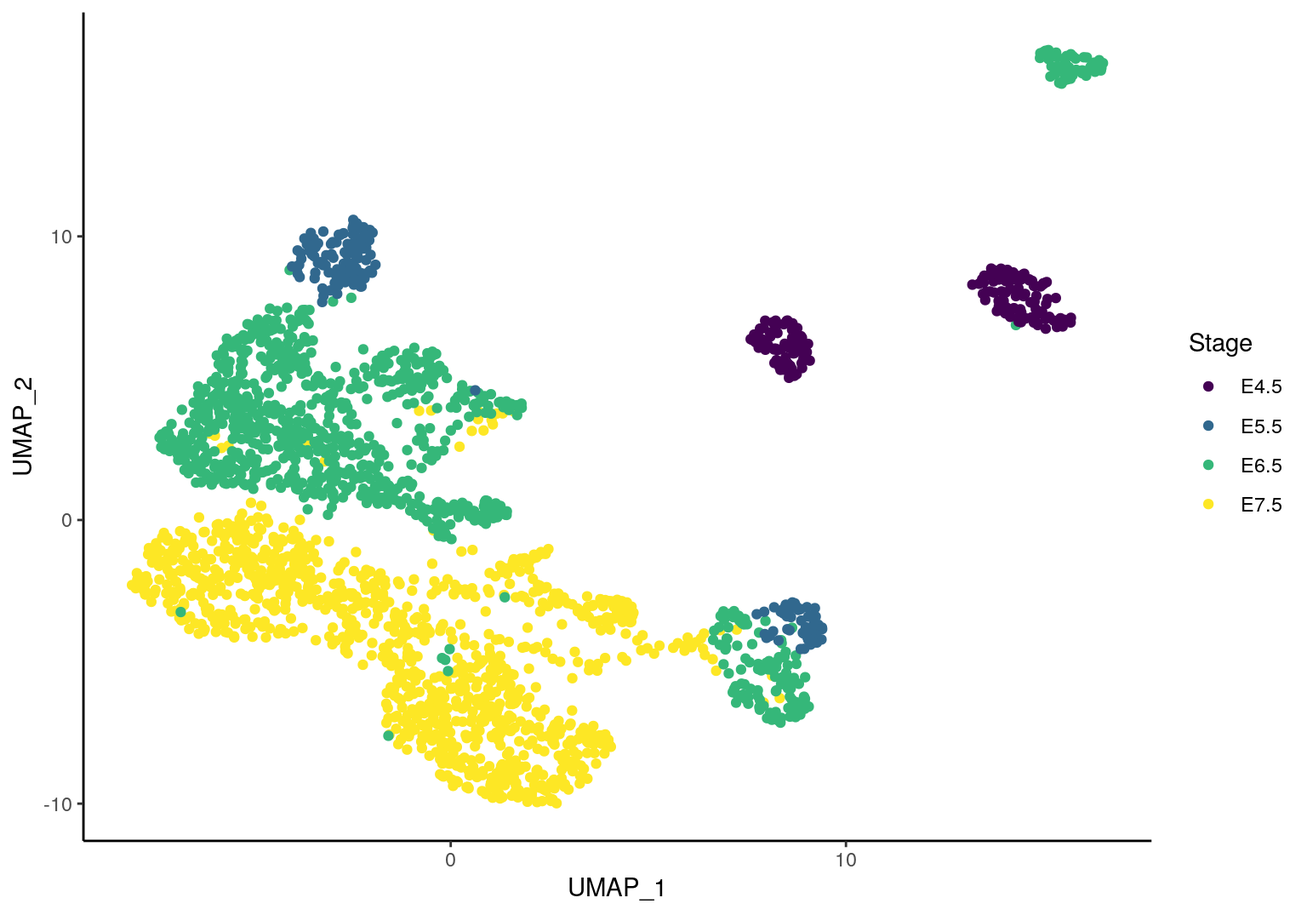
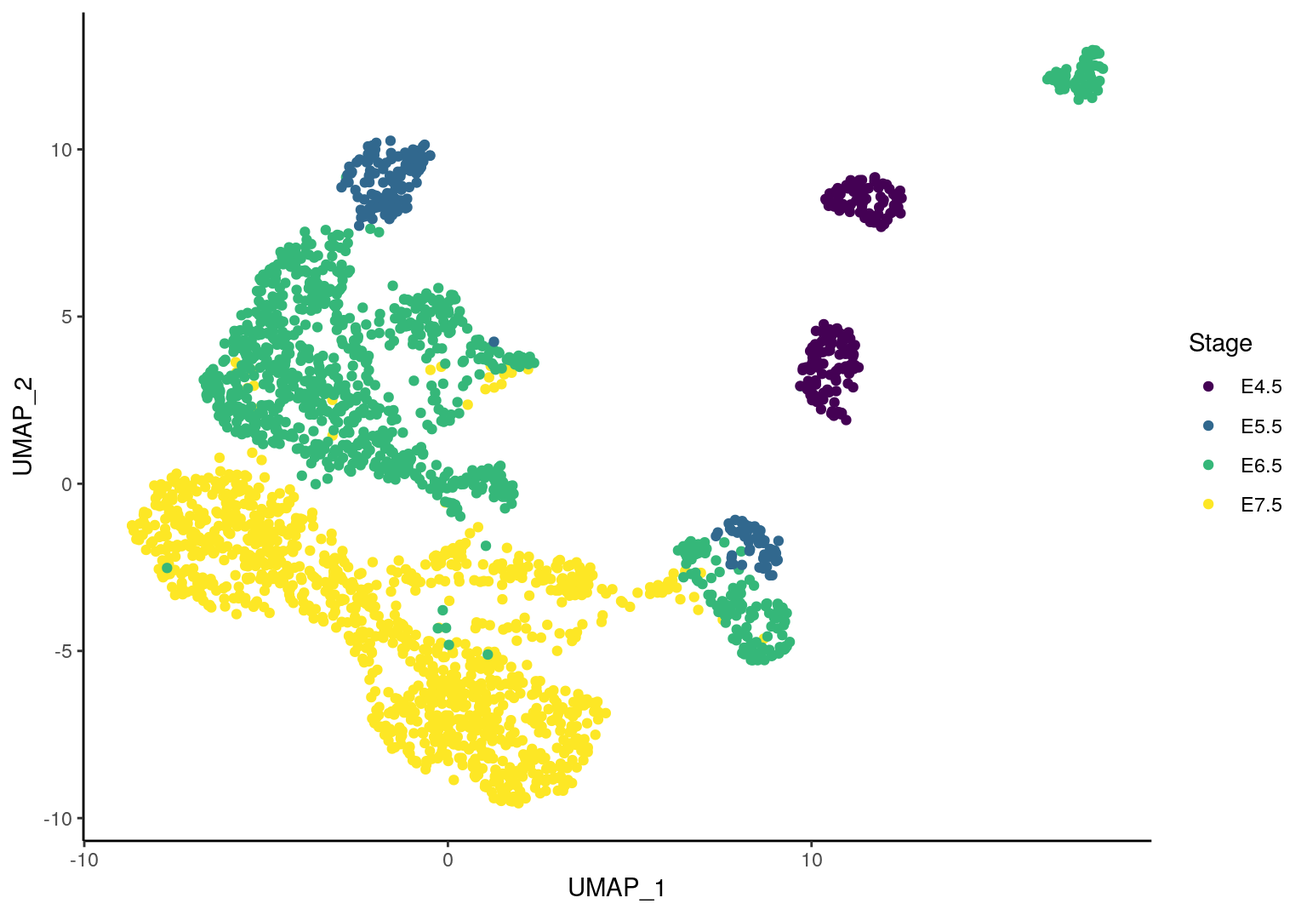
Deploying to gh-pages from  @ c1abd551ba6c7c4b77b3a3a541d36aec18cddb22 🚀

diff --git a/articles/index.html b/articles/index.html
@@ -276,25 +276,28 @@
 <span class="no">stages</span> <span class="kw">&lt;-</span> <span class="fu"><a href="https://rdrr.io/r/base/c.html">c</a></span>(<span class="st">"E4.5"</span>, <span class="st">"E5.5"</span>, <span class="st">"E6.5"</span>, <span class="st">"E7.5"</span>)
 <span class="co"># col_palette &lt;- dput(viridisLite::viridis(n = length(stages)))</span>
 <span class="no">col_palette</span> <span class="kw">&lt;-</span> <span class="fu"><a href="https://rdrr.io/r/base/c.html">c</a></span>(<span class="st">"#440154FF"</span>, <span class="st">"#31688EFF"</span>, <span class="st">"#35B779FF"</span>, <span class="st">"#FDE725FF"</span>)
-<span class="fu"><a href="https://rdrr.io/r/base/names.html">names</a></span>(<span class="no">col_palette</span>) <span class="kw">&lt;-</span> <span class="no">stages</span>
-
-<span class="co">## helper function to create UMAP plots coloured by stage</span>
-<span class="no">plot_umap_by_stage</span> <span class="kw">&lt;-</span> <span class="kw">function</span>(<span class="no">df</span>, <span class="no">dims</span> <span class="kw">=</span> <span class="fu"><a href="https://rdrr.io/r/base/c.html">c</a></span>(<span class="fl">1</span>,<span class="fl">2</span>)) {
-  <span class="no">axes</span> <span class="kw">&lt;-</span> <span class="fu"><a href="https://rdrr.io/r/base/paste.html">paste0</a></span>(<span class="st">'UMAP_'</span>, <span class="no">dims</span>)
+<span class="fu"><a href="https://rdrr.io/r/base/names.html">names</a></span>(<span class="no">col_palette</span>) <span class="kw">&lt;-</span> <span class="no">stages</span></pre></body></html></div>
+<div class="sourceCode" id="cb11"><html><body><pre class="r"><span class="co">## helper function to create UMAP plots coloured by stage</span>
+<span class="no">plot_reducedDims</span> <span class="kw">&lt;-</span> <span class="kw">function</span>(<span class="no">sce</span>, <span class="no">reducedDim</span> <span class="kw">=</span> <span class="st">'UMAP'</span>,
+                             <span class="no">dims</span> <span class="kw">=</span> <span class="fu"><a href="https://rdrr.io/r/base/c.html">c</a></span>(<span class="fl">1</span>,<span class="fl">2</span>), <span class="no">col_palette</span>) {
+  <span class="no">comps.prefix</span> <span class="kw">&lt;-</span> <span class="fu"><a href="https://rdrr.io/r/base/ifelse.html">ifelse</a></span>(<span class="no">reducedDim</span> <span class="kw">==</span> <span class="st">'UMAP'</span>, <span class="st">'UMAP_'</span>, <span class="st">'PC_'</span>)
+  <span class="no">df</span> <span class="kw">&lt;-</span> <span class="fu"><a href="https://rdrr.io/r/base/data.frame.html">data.frame</a></span>(<span class="fu">reducedDim</span>(<span class="no">sce</span>, <span class="no">reducedDim</span>))[,<span class="no">dims</span>]
+  <span class="no">axes</span> <span class="kw">&lt;-</span> <span class="fu"><a href="https://rdrr.io/r/base/colnames.html">colnames</a></span>(<span class="no">df</span>) <span class="kw">&lt;-</span> <span class="fu"><a href="https://rdrr.io/r/base/paste.html">paste0</a></span>(<span class="no">comps.prefix</span>, <span class="no">dims</span>)
+  <span class="no">df</span>$<span class="no">stage</span> <span class="kw">&lt;-</span> <span class="no">sce</span>$<span class="no">stage</span>
   <span class="fu"><a href="https://ggplot2.tidyverse.org/reference/ggplot.html">ggplot</a></span>(<span class="no">df</span>, <span class="fu"><a href="https://ggplot2.tidyverse.org/reference/aes_.html">aes_string</a></span>(<span class="no">axes</span>[<span class="fl">1</span>], <span class="no">axes</span>[<span class="fl">2</span>])) + <span class="fu"><a href="https://ggplot2.tidyverse.org/reference/geom_point.html">geom_point</a></span>(<span class="fu"><a href="https://ggplot2.tidyverse.org/reference/aes.html">aes</a></span>(<span class="kw">col</span><span class="kw">=</span><span class="no">stage</span>)) +
     <span class="fu"><a href="https://ggplot2.tidyverse.org/reference/ggtheme.html">theme_classic</a></span>()+ <span class="fu"><a href="https://ggplot2.tidyverse.org/reference/scale_manual.html">scale_color_manual</a></span>(<span class="kw">values</span> <span class="kw">=</span> <span class="no">col_palette</span>) + <span class="fu"><a href="https://ggplot2.tidyverse.org/reference/labs.html">labs</a></span>(<span class="kw">col</span> <span class="kw">=</span> <span class="st">'Stage'</span>)
 }</pre></body></html></div>
-<div id="umap-projection-all-of-rna-cells" class="section level2">
+<div id="dimension-reduction-all-of-rna-cells" class="section level2">
 <h2 class="hasAnchor">
-<a href="#umap-projection-all-of-rna-cells" class="anchor"></a>UMAP projection all of RNA cells</h2>
+<a href="#dimension-reduction-all-of-rna-cells" class="anchor"></a>Dimension reduction all of RNA cells</h2>
 <p>Select highly variable genes after accounting for technical variation:</p>
-<div class="sourceCode" id="cb11"><html><body><pre class="r"><span class="no">decomp</span> <span class="kw">&lt;-</span> <span class="fu"><a href="https://rdrr.io/pkg/scran/man/modelGeneVar.html">modelGeneVar</a></span>(<span class="no">rna.sce</span>)
+<div class="sourceCode" id="cb12"><html><body><pre class="r"><span class="no">decomp</span> <span class="kw">&lt;-</span> <span class="fu"><a href="https://rdrr.io/pkg/scran/man/modelGeneVar.html">modelGeneVar</a></span>(<span class="no">rna.sce</span>)
 <span class="co">## filter by mean expression and significance of biological variation signal</span>
 <span class="no">hvgs</span> <span class="kw">&lt;-</span> <span class="fu"><a href="https://rdrr.io/r/base/colnames.html">rownames</a></span>(<span class="no">decomp</span>)[<span class="no">decomp</span>$<span class="no">p.value</span><span class="kw">&lt;</span><span class="fl">0.01</span> <span class="kw">&amp;</span> <span class="no">decomp</span>$<span class="no">mean</span> <span class="kw">&gt;</span> <span class="fl">0.01</span>]
 <span class="fu"><a href="https://rdrr.io/r/base/length.html">length</a></span>(<span class="no">hvgs</span>)
 <span class="co">#&gt; [1] 381</span></pre></body></html></div>
 <p>Run PCA and then UMAP using PCs:</p>
-<div class="sourceCode" id="cb12"><html><body><pre class="r"><span class="no">npcs</span> <span class="kw">&lt;-</span> <span class="fl">15</span>
+<div class="sourceCode" id="cb13"><html><body><pre class="r"><span class="no">npcs</span> <span class="kw">&lt;-</span> <span class="fl">15</span>
 <span class="co">## PCA first: retrieve npcs PCs</span>
 <span class="no">rna.sce</span> <span class="kw">&lt;-</span> <span class="fu"><a href="https://rdrr.io/pkg/scater/man/runPCA.html">runPCA</a></span>(<span class="no">rna.sce</span>,  <span class="kw">ncomponents</span> <span class="kw">=</span> <span class="no">npcs</span>, <span class="kw">subset_row</span><span class="kw">=</span><span class="no">hvgs</span>, <span class="kw">name</span> <span class="kw">=</span> <span class="st">'PCA'</span>)
 
@@ -308,27 +311,34 @@
                    <span class="kw">ncomponents</span> <span class="kw">=</span> <span class="no">params</span>$<span class="no">umap_params</span>[<span class="st">'n_components'</span>],
                    <span class="kw">n_neighbors</span> <span class="kw">=</span> <span class="no">params</span>$<span class="no">umap_params</span>[<span class="st">'n_neighbors'</span>],
                    <span class="kw">min_dist</span> <span class="kw">=</span> <span class="no">params</span>$<span class="no">umap_params</span>[<span class="st">'min_dist'</span>])</pre></body></html></div>
-<p>data.frame of embeddings with cell metadata:</p>
-<div class="sourceCode" id="cb13"><html><body><pre class="r"><span class="co"># data.frame of embeddings with cell metadata</span>
-<span class="no">df</span> <span class="kw">&lt;-</span>  <span class="fu"><a href="https://rdrr.io/r/base/data.frame.html">data.frame</a></span>(<span class="fu">reducedDim</span>(<span class="no">rna.sce</span>,<span class="st">"UMAP"</span>))
-<span class="fu"><a href="https://rdrr.io/r/base/colnames.html">colnames</a></span>(<span class="no">df</span>) <span class="kw">&lt;-</span> <span class="fu"><a href="https://rdrr.io/r/base/paste.html">paste0</a></span>(<span class="st">'UMAP_'</span>, <span class="fu"><a href="https://rdrr.io/r/base/seq.html">seq_along</a></span>(<span class="no">df</span>))
-<span class="no">df</span> <span class="kw">&lt;-</span> <span class="fu"><a href="https://rdrr.io/r/base/cbind.html">cbind</a></span>(<span class="no">df</span>, <span class="fu">colData</span>(<span class="no">rna.sce</span>))</pre></body></html></div>
+<div id="pca" class="section level3">
+<h3 class="hasAnchor">
+<a href="#pca" class="anchor"></a>PCA</h3>
 <p>Plot the first two UMAP components:</p>
-<div class="sourceCode" id="cb14"><html><body><pre class="r"><span class="fu">plot_umap_by_stage</span>(<span class="kw">df</span> <span class="kw">=</span> <span class="no">df</span>, <span class="kw">dims</span> <span class="kw">=</span> <span class="fu"><a href="https://rdrr.io/r/base/c.html">c</a></span>(<span class="fl">1</span>,<span class="fl">2</span>))</pre></body></html></div>
+<div class="sourceCode" id="cb14"><html><body><pre class="r"><span class="fu">plot_reducedDims</span>(<span class="kw">sce</span> <span class="kw">=</span> <span class="no">rna.sce</span>, <span class="kw">reducedDim</span> <span class="kw">=</span> <span class="st">'PCA'</span>, <span class="kw">dims</span> <span class="kw">=</span> <span class="fu"><a href="https://rdrr.io/r/base/c.html">c</a></span>(<span class="fl">1</span>,<span class="fl">2</span>), <span class="kw">col_palette</span> <span class="kw">=</span> <span class="no">col_palette</span>)</pre></body></html></div>
 <p><img src="index_files/figure-html/unnamed-chunk-18-1.png" width="768"></p>
-<p>UMAP plot shows distinct cell populations corresponding to early-stage, mid-stage, and late-stage cells as well as the within-stage variation for mainly E4.5 and E6.5 which could correspond to different lineages.</p>
+<p>First two PCs highlight the within-stage variation which could potentially correspond to different distinct cell lineages.</p>
 </div>
-<div id="umap-projection-all-matching-rna-cells-used-in-integration" class="section level2">
+<div id="umap" class="section level3">
+<h3 class="hasAnchor">
+<a href="#umap" class="anchor"></a>UMAP</h3>
+<p>Plot the first two UMAP components:</p>
+<div class="sourceCode" id="cb15"><html><body><pre class="r"><span class="fu">plot_reducedDims</span>(<span class="kw">sce</span> <span class="kw">=</span> <span class="no">rna.sce</span>, <span class="kw">reducedDim</span> <span class="kw">=</span> <span class="st">'UMAP'</span>, <span class="kw">dims</span> <span class="kw">=</span> <span class="fu"><a href="https://rdrr.io/r/base/c.html">c</a></span>(<span class="fl">1</span>,<span class="fl">2</span>), <span class="kw">col_palette</span> <span class="kw">=</span> <span class="no">col_palette</span>)</pre></body></html></div>
+<p><img src="index_files/figure-html/unnamed-chunk-19-1.png" width="768"></p>
+<p>UMAP plot separates the cell populations from early-stage, mid-stage, and late-stage cells and captures the the within-stage variation for early-stage and mid-stage cells.</p>
+</div>
+</div>
+<div id="dimension-reduction-of-all-matching-rna-cells-used-in-integration" class="section level2">
 <h2 class="hasAnchor">
-<a href="#umap-projection-all-matching-rna-cells-used-in-integration" class="anchor"></a>UMAP projection all matching RNA cells used in integration</h2>
+<a href="#dimension-reduction-of-all-matching-rna-cells-used-in-integration" class="anchor"></a>Dimension reduction of all matching RNA cells used in integration</h2>
 <p>Select highly variable genes after accounting for technical variation:</p>
-<div class="sourceCode" id="cb15"><html><body><pre class="r"><span class="no">decomp</span> <span class="kw">&lt;-</span> <span class="fu"><a href="https://rdrr.io/pkg/scran/man/modelGeneVar.html">modelGeneVar</a></span>(<span class="no">rna.sce.matching</span>)
+<div class="sourceCode" id="cb16"><html><body><pre class="r"><span class="no">decomp</span> <span class="kw">&lt;-</span> <span class="fu"><a href="https://rdrr.io/pkg/scran/man/modelGeneVar.html">modelGeneVar</a></span>(<span class="no">rna.sce.matching</span>)
 <span class="co">## filter by mean expression and significance of biological variation signal</span>
 <span class="no">hvgs</span> <span class="kw">&lt;-</span> <span class="fu"><a href="https://rdrr.io/r/base/colnames.html">rownames</a></span>(<span class="no">decomp</span>)[<span class="no">decomp</span>$<span class="no">p.value</span><span class="kw">&lt;</span><span class="fl">0.01</span> <span class="kw">&amp;</span> <span class="no">decomp</span>$<span class="no">mean</span> <span class="kw">&gt;</span> <span class="fl">0.01</span>]
 <span class="fu"><a href="https://rdrr.io/r/base/length.html">length</a></span>(<span class="no">hvgs</span>)
 <span class="co">#&gt; [1] 474</span></pre></body></html></div>
 <p>Run PCA and then UMAP using PCs:</p>
-<div class="sourceCode" id="cb16"><html><body><pre class="r"><span class="no">npcs</span> <span class="kw">&lt;-</span> <span class="fl">15</span>
+<div class="sourceCode" id="cb17"><html><body><pre class="r"><span class="no">npcs</span> <span class="kw">&lt;-</span> <span class="fl">15</span>
 <span class="co">## PCA first: retrieve npcs PCs</span>
 <span class="no">rna.sce.matching</span> <span class="kw">&lt;-</span> <span class="fu"><a href="https://rdrr.io/pkg/scater/man/runPCA.html">runPCA</a></span>(<span class="no">rna.sce.matching</span>, <span class="kw">ncomponents</span> <span class="kw">=</span> <span class="no">npcs</span>, <span class="kw">subset_row</span><span class="kw">=</span><span class="no">hvgs</span>, <span class="kw">name</span> <span class="kw">=</span> <span class="st">'PCA'</span>)
 
@@ -341,15 +351,22 @@
 <span class="no">rna.sce.matching</span> <span class="kw">&lt;-</span> <span class="fu"><a href="https://rdrr.io/pkg/scater/man/runUMAP.html">runUMAP</a></span>(<span class="no">rna.sce.matching</span>, <span class="kw">dimred</span><span class="kw">=</span><span class="st">"PCA"</span>,
                    <span class="kw">ncomponents</span> <span class="kw">=</span> <span class="no">params</span>$<span class="no">umap_params</span>[<span class="st">'n_components'</span>],
                    <span class="kw">n_neighbors</span> <span class="kw">=</span> <span class="no">params</span>$<span class="no">umap_params</span>[<span class="st">'n_neighbors'</span>],
-                   <span class="kw">min_dist</span> <span class="kw">=</span> <span class="no">params</span>$<span class="no">umap_params</span>[<span class="st">'min_dist'</span>])</pre></body></html></div>
-<p>data.frame of embeddings with cell metadata:</p>
-<div class="sourceCode" id="cb17"><html><body><pre class="r"><span class="co"># data.frame of embeddings with cell metadata</span>
-<span class="no">df.matching</span> <span class="kw">&lt;-</span>  <span class="fu"><a href="https://rdrr.io/r/base/data.frame.html">data.frame</a></span>(<span class="fu">reducedDim</span>(<span class="no">rna.sce.matching</span>,<span class="st">"UMAP"</span>))
-<span class="fu"><a href="https://rdrr.io/r/base/colnames.html">colnames</a></span>(<span class="no">df.matching</span>) <span class="kw">&lt;-</span> <span class="fu"><a href="https://rdrr.io/r/base/paste.html">paste0</a></span>(<span class="st">'UMAP_'</span>, <span class="fu"><a href="https://rdrr.io/r/base/seq.html">seq_along</a></span>(<span class="no">df.matching</span>))
-<span class="no">df.matching</span> <span class="kw">&lt;-</span> <span class="fu"><a href="https://rdrr.io/r/base/cbind.html">cbind</a></span>(<span class="no">df.matching</span>, <span class="fu">colData</span>(<span class="no">rna.sce.matching</span>))</pre></body></html></div>
+                   <span class="kw">min_dist</span> <span class="kw">=</span> <span class="fl">0.35</span>)</pre></body></html></div>
+<div id="pca-1" class="section level3">
+<h3 class="hasAnchor">
+<a href="#pca-1" class="anchor"></a>PCA</h3>
 <p>Plot the first two UMAP components:</p>
-<div class="sourceCode" id="cb18"><html><body><pre class="r"><span class="fu">plot_umap_by_stage</span>(<span class="kw">df</span> <span class="kw">=</span> <span class="no">df.matching</span>, <span class="kw">dims</span> <span class="kw">=</span> <span class="fu"><a href="https://rdrr.io/r/base/c.html">c</a></span>(<span class="fl">1</span>,<span class="fl">2</span>))</pre></body></html></div>
+<div class="sourceCode" id="cb18"><html><body><pre class="r"><span class="fu">plot_reducedDims</span>(<span class="kw">sce</span> <span class="kw">=</span> <span class="no">rna.sce.matching</span>, <span class="kw">reducedDim</span> <span class="kw">=</span> <span class="st">'PCA'</span>, <span class="kw">dims</span> <span class="kw">=</span> <span class="fu"><a href="https://rdrr.io/r/base/c.html">c</a></span>(<span class="fl">1</span>,<span class="fl">2</span>), <span class="kw">col_palette</span> <span class="kw">=</span> <span class="no">col_palette</span>)</pre></body></html></div>
 <p><img src="index_files/figure-html/unnamed-chunk-22-1.png" width="768"></p>
+</div>
+<div id="umap-1" class="section level3">
+<h3 class="hasAnchor">
+<a href="#umap-1" class="anchor"></a>UMAP</h3>
+<p>Plot the first two UMAP components:</p>
+<div class="sourceCode" id="cb19"><html><body><pre class="r"><span class="fu">plot_reducedDims</span>(<span class="kw">sce</span> <span class="kw">=</span> <span class="no">rna.sce.matching</span>, <span class="kw">reducedDim</span> <span class="kw">=</span> <span class="st">'UMAP'</span>, <span class="kw">dims</span> <span class="kw">=</span> <span class="fu"><a href="https://rdrr.io/r/base/c.html">c</a></span>(<span class="fl">1</span>,<span class="fl">2</span>), <span class="kw">col_palette</span> <span class="kw">=</span> <span class="no">col_palette</span>)</pre></body></html></div>
+<p><img src="index_files/figure-html/unnamed-chunk-23-1.png" width="768"></p>
+<p>Similar results to the analysis with all cells.</p>
+</div>
 </div>
 </div>
 <div id="integration" class="section level1">
@@ -383,7 +400,7 @@
 <h2 class="hasAnchor">
 <a href="#pls" class="anchor"></a>PLS</h2>
 <p>data dimensions overview:</p>
-<div class="sourceCode" id="cb19"><html><body><pre class="r"><span class="co"># data dimensions</span>
+<div class="sourceCode" id="cb20"><html><body><pre class="r"><span class="co"># data dimensions</span>
 <span class="fu"><a href="https://rdrr.io/r/base/lapply.html">lapply</a></span>(<span class="fu"><a href="https://rdrr.io/pkg/MultiAssayExperiment/man/MultiAssayExperiment-methods.html">experiments</a></span>(<span class="no">gastru.mae</span>), <span class="no">dim</span>)
 <span class="co">#&gt; $rna</span>
 <span class="co">#&gt; [1] 18345   942</span>
@@ -400,7 +417,7 @@
 <span class="co">#&gt; $met_DHS</span>
 <span class="co">#&gt; [1] 6673  942</span></pre></body></html></div>
 <p>integration of all modalities with feature selection:</p>
-<div class="sourceCode" id="cb20"><html><body><pre class="r"><span class="co">## number of components</span>
+<div class="sourceCode" id="cb21"><html><body><pre class="r"><span class="co">## number of components</span>
 <span class="no">ncomp</span> <span class="kw">&lt;-</span> <span class="fl">2</span>
 <span class="co">## feature scaling</span>
 <span class="no">scale</span> <span class="kw">&lt;-</span> <span class="fl">TRUE</span></pre></body></html></div>
@@ -408,7 +425,7 @@
 <!-- pls_output_name <- sprintf('multimodal_spls-ncomp_%s-scale_.rds', ncomp, scale) -->
 <!-- ``` -->
 <p>Here we select for 50 features on each component in <code>multimodal_sPLS_wrapper</code>:</p>
-<div class="sourceCode" id="cb21"><html><body><pre class="r"><span class="fu"><a href="https://rdrr.io/r/base/cat.html">cat</a></span>(<span class="fu"><a href="https://rdrr.io/r/base/sprintf.html">sprintf</a></span>(<span class="st">'Running PLS with %s components performing variable selection\n'</span>, <span class="no">ncomp</span>))
+<div class="sourceCode" id="cb22"><html><body><pre class="r"><span class="fu"><a href="https://rdrr.io/r/base/cat.html">cat</a></span>(<span class="fu"><a href="https://rdrr.io/r/base/sprintf.html">sprintf</a></span>(<span class="st">'Running PLS with %s components performing variable selection\n'</span>, <span class="no">ncomp</span>))
 <span class="co">#&gt; Running PLS with 2 components performing variable selection</span>
 <span class="no">st</span> <span class="kw">&lt;-</span> <span class="fu"><a href="https://rdrr.io/r/base/system.time.html">system.time</a></span>({
   <span class="no">mmspls</span> <span class="kw">&lt;-</span>
@@ -421,25 +438,29 @@
 
 <span class="fu"><a href="https://rdrr.io/r/base/cat.html">cat</a></span>(<span class="st">'\nPLS run finished. Runtime: '</span>, <span class="fu">format_runtime</span>(<span class="no">st</span>), <span class="st">'\n'</span>)
 <span class="co">#&gt; </span>
-<span class="co">#&gt; PLS run finished. Runtime:  00:01:58</span></pre></body></html></div>
-<div class="sourceCode" id="cb22"><html><body><pre class="r"><span class="no">plotIndiv_wrapper</span> <span class="kw">&lt;-</span> <span class="kw">function</span>(<span class="no">pls_obj</span>, <span class="no">coldata</span>, <span class="no">col_cell</span> <span class="kw">=</span> <span class="st">'stage'</span>, <span class="no">legend.title</span> <span class="kw">=</span> <span class="st">'Stage'</span>, <span class="no">comp</span> <span class="kw">=</span> <span class="fu"><a href="https://rdrr.io/r/base/c.html">c</a></span>(<span class="fl">1</span>,<span class="fl">2</span>), <span class="no">...</span>) {
-  <span class="co">## order coldata cells based on matching cells in pls modalities</span>
-  <span class="no">coldata</span> <span class="kw">&lt;-</span> <span class="no">coldata</span>[<span class="fu"><a href="https://rdrr.io/r/base/colnames.html">rownames</a></span>(<span class="no">pls_obj</span>$<span class="no">X</span><span class="kw">[[</span><span class="fl">1</span>]]),]
-  <span class="no">cell_class</span> <span class="kw">&lt;-</span> <span class="no">coldata</span>[,<span class="no">col_cell</span>]  <span class="co">## col factor for cells</span>
-  <span class="no">cell_class</span> <span class="kw">&lt;-</span> <span class="fu"><a href="https://rdrr.io/r/base/factor.html">factor</a></span>(<span class="no">cell_class</span>)
-  <span class="fu"><a href="https://rdrr.io/r/base/warning.html">suppressWarnings</a></span>({
-    <span class="fu"><a href="https://rdrr.io/pkg/mixOmics/man/plotIndiv.html">plotIndiv</a></span>(<span class="no">pls_obj</span>, <span class="kw">pch</span> <span class="kw">=</span> <span class="fl">16</span>, <span class="kw">comp</span> <span class="kw">=</span> <span class="no">comp</span>,<span class="kw">group</span> <span class="kw">=</span> <span class="no">cell_class</span>, <span class="kw">legend</span> <span class="kw">=</span> <span class="fl">TRUE</span>, <span class="kw">legend.title</span> <span class="kw">=</span> <span class="no">legend.title</span>, <span class="kw">size.subtitle</span> <span class="kw">=</span> <span class="fl">10</span>, <span class="kw">cex</span><span class="kw">=</span><span class="fl">0.8</span>, <span class="no">...</span>)
+<span class="co">#&gt; PLS run finished. Runtime:  00:02:26</span></pre></body></html></div>
+<div class="sourceCode" id="cb23"><html><body><pre class="r"><span class="no">plot_pls</span> <span class="kw">&lt;-</span> <span class="kw">function</span>(<span class="no">pls_obj</span>, <span class="no">stage</span>, <span class="no">legend.title</span> <span class="kw">=</span> <span class="st">'Stage'</span>, <span class="no">comp</span> <span class="kw">=</span> <span class="fu"><a href="https://rdrr.io/r/base/c.html">c</a></span>(<span class="fl">1</span>,<span class="fl">2</span>), <span class="no">col_palette</span>) {
+  <span class="no">variates</span> <span class="kw">&lt;-</span> <span class="fu"><a href="https://rdrr.io/r/base/lapply.html">lapply</a></span>(<span class="no">pls_obj</span>$<span class="no">variates</span>, <span class="kw">function</span>(<span class="no">arr</span>){
+    <span class="no">df</span> <span class="kw">&lt;-</span> <span class="fu"><a href="https://rdrr.io/r/base/as.data.frame.html">as.data.frame</a></span>(<span class="no">arr</span>[,<span class="no">comp</span>])
+    <span class="no">df</span>$<span class="no">stage</span> <span class="kw">&lt;-</span> <span class="no">stage</span>
+    <span class="no">df</span>
   })
+  <span class="no">variates</span> <span class="kw">&lt;-</span> <span class="fu"><a href="https://github.com/ajabadi/BIRSBIO2020.scNMTseq.PLS/reference/utils.html">rbindListWithNames</a></span>(<span class="no">variates</span>, <span class="kw">new_col</span> <span class="kw">=</span> <span class="st">'Modality'</span>)
+  <span class="no">axes</span> <span class="kw">&lt;-</span> <span class="fu"><a href="https://rdrr.io/r/base/colnames.html">colnames</a></span>(<span class="no">variates</span>)[<span class="fl">1</span>:<span class="fl">2</span>]
+  <span class="fu"><a href="https://ggplot2.tidyverse.org/reference/ggplot.html">ggplot</a></span>(<span class="no">variates</span>) +
+    <span class="fu"><a href="https://ggplot2.tidyverse.org/reference/ggtheme.html">theme_classic</a></span>() +
+    <span class="fu"><a href="https://ggplot2.tidyverse.org/reference/geom_point.html">geom_point</a></span>(<span class="fu"><a href="https://ggplot2.tidyverse.org/reference/aes_.html">aes_string</a></span>(<span class="kw">x</span> <span class="kw">=</span> <span class="no">axes</span>[<span class="fl">1</span>], <span class="kw">y</span> <span class="kw">=</span> <span class="no">axes</span>[<span class="fl">2</span>], <span class="kw">col</span> <span class="kw">=</span> <span class="st">'stage'</span>)) +
+    <span class="fu"><a href="https://ggplot2.tidyverse.org/reference/facet_wrap.html">facet_wrap</a></span>(<span class="no">.</span>~<span class="no">Modality</span>, <span class="kw">ncol</span> <span class="kw">=</span> <span class="fl">2</span>) +
+    <span class="fu"><a href="https://ggplot2.tidyverse.org/reference/scale_manual.html">scale_color_manual</a></span>(<span class="kw">values</span> <span class="kw">=</span> <span class="no">col_palette</span>)
 }</pre></body></html></div>
 </div>
 <div id="score-plots" class="section level2">
 <h2 class="hasAnchor">
 <a href="#score-plots" class="anchor"></a>score plots</h2>
-<div class="sourceCode" id="cb23"><html><body><pre class="r"><span class="co">## create a data.frame from cell metadata</span>
-<span class="no">coldata</span> <span class="kw">&lt;-</span> <span class="fu"><a href="https://rdrr.io/r/base/data.frame.html">data.frame</a></span>(<span class="fu">colData</span>(<span class="no">gastru.mae</span>))</pre></body></html></div>
 <p>Colored by stage:</p>
-<div class="sourceCode" id="cb24"><html><body><pre class="r"><span class="fu">plotIndiv_wrapper</span>(<span class="kw">pls_obj</span> <span class="kw">=</span> <span class="no">mmspls</span>, <span class="kw">coldata</span> <span class="kw">=</span> <span class="no">coldata</span>, <span class="kw">col_cell</span> <span class="kw">=</span> <span class="st">'stage'</span>, <span class="kw">legend.title</span> <span class="kw">=</span> <span class="st">'Stage'</span>, <span class="kw">comp</span> <span class="kw">=</span> <span class="fu"><a href="https://rdrr.io/r/base/c.html">c</a></span>(<span class="fl">1</span>,<span class="fl">2</span>), <span class="kw">subtitle</span> <span class="kw">=</span> <span class="fu"><a href="https://rdrr.io/r/base/names.html">names</a></span>(<span class="no">mmspls</span>$<span class="no">X</span>), <span class="kw">col.per.group</span> <span class="kw">=</span> <span class="no">col_palette</span>)</pre></body></html></div>
+<div class="sourceCode" id="cb24"><html><body><pre class="r"><span class="fu">plot_pls</span>(<span class="kw">pls_obj</span> <span class="kw">=</span> <span class="no">mmspls</span>, <span class="kw">stage</span> <span class="kw">=</span> <span class="no">gastru.mae</span>$<span class="no">stage</span>, <span class="kw">col_palette</span> <span class="kw">=</span> <span class="no">col_palette</span>)</pre></body></html></div>
 <p><img src="index_files/figure-html/unnamed-chunk-29-1.png" width="768"></p>
+<p>The derived latent components which seek to maximise the sum of concordant variation b/w rna and other modalities show phenotypic relevance in terms of the embryonic stages. It indicates coordinated changes across the methylomes in the regions of study during gastrulation.</p>
 </div>
 </div>
 <div id="concordance-with-rna" class="section level1">
